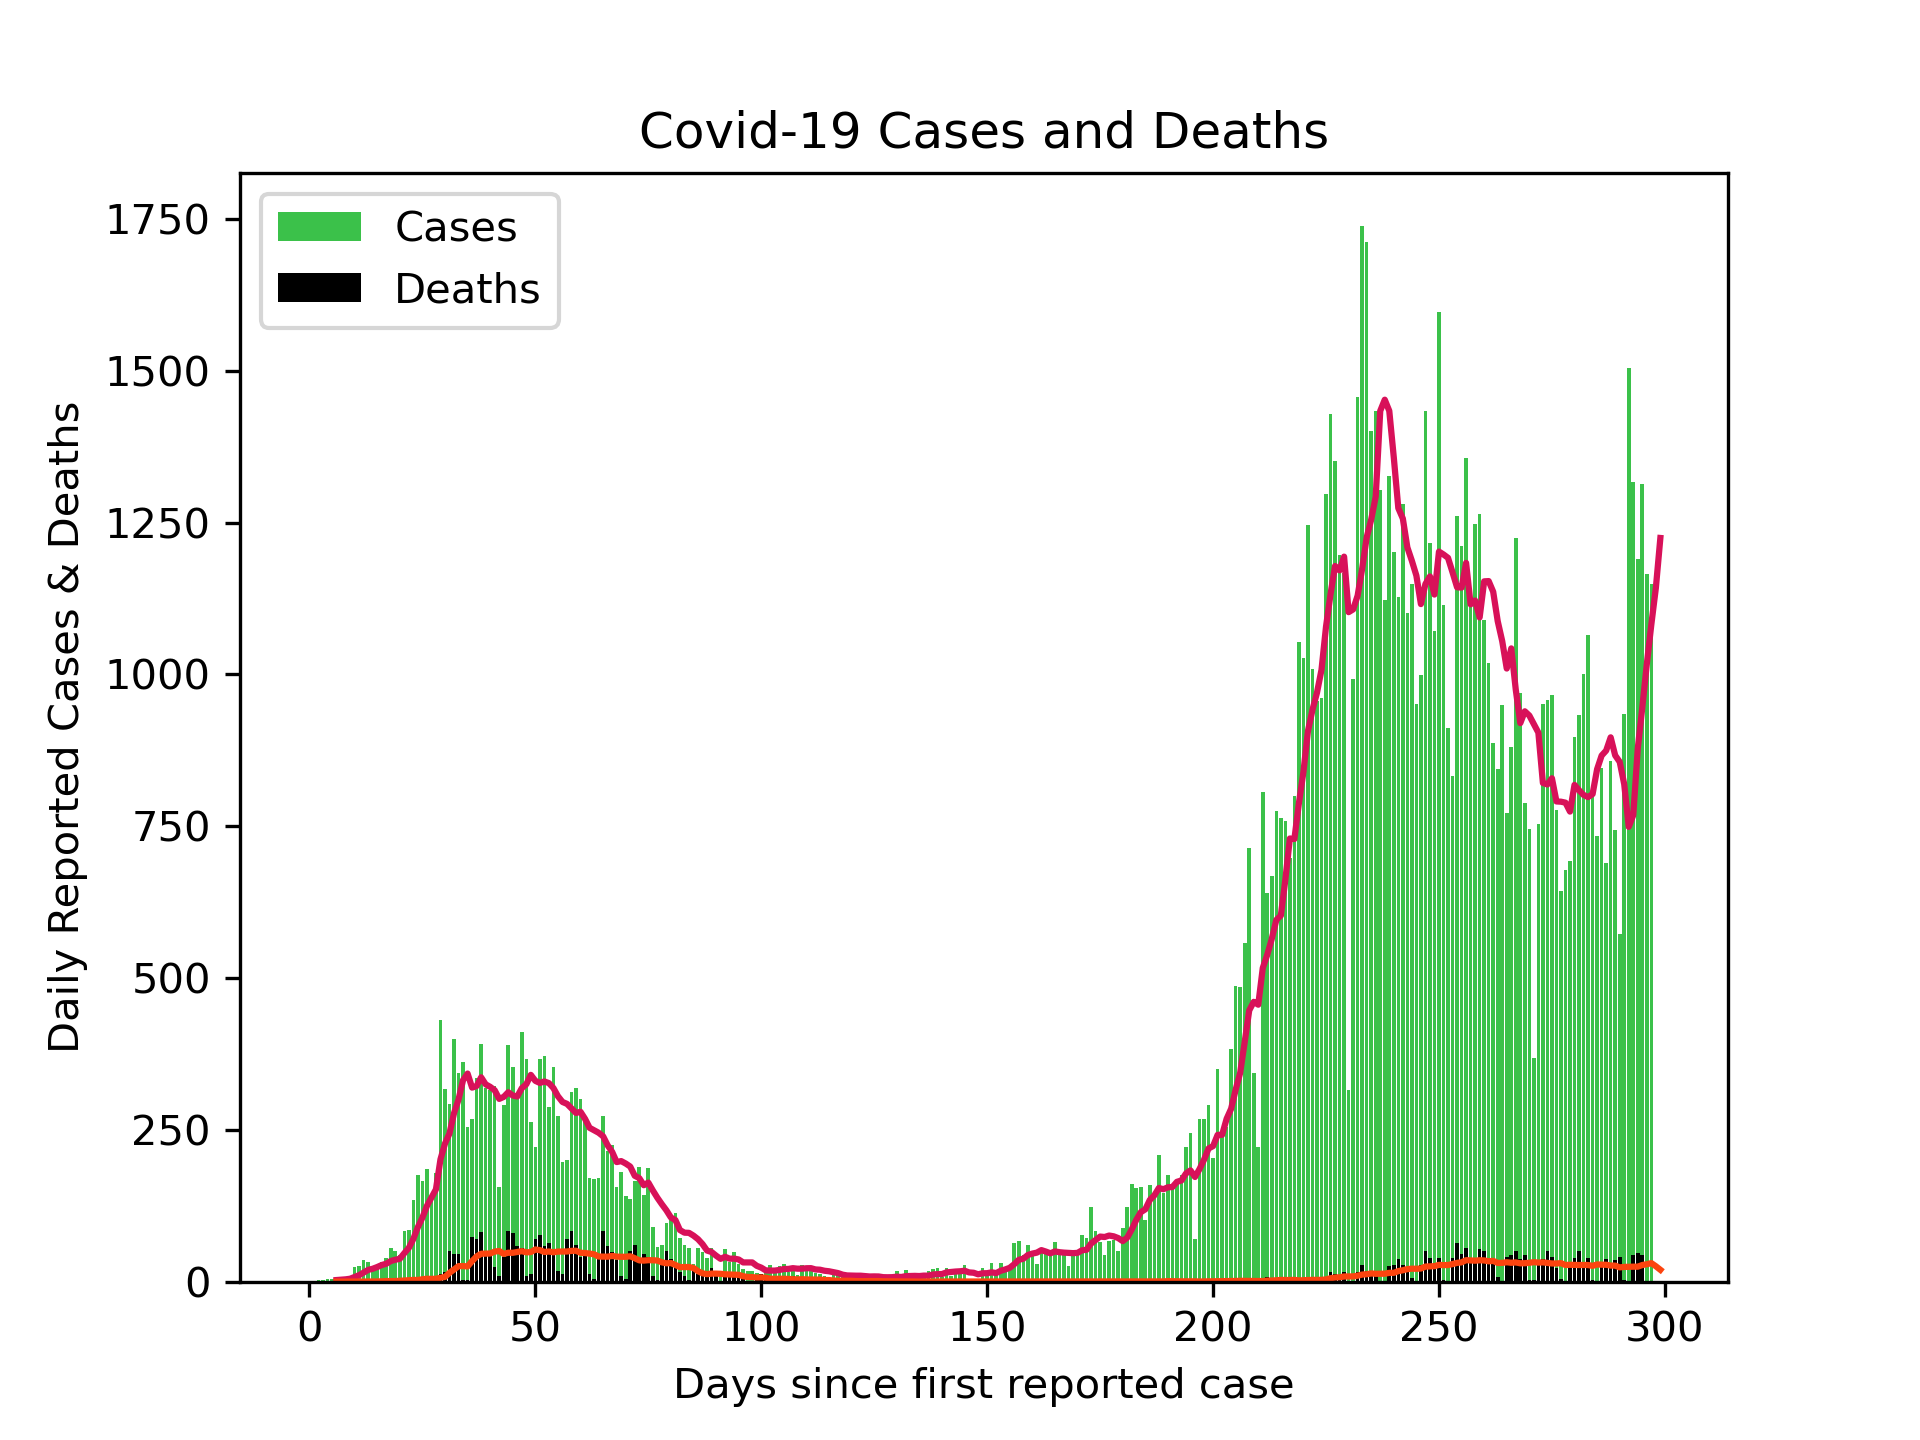
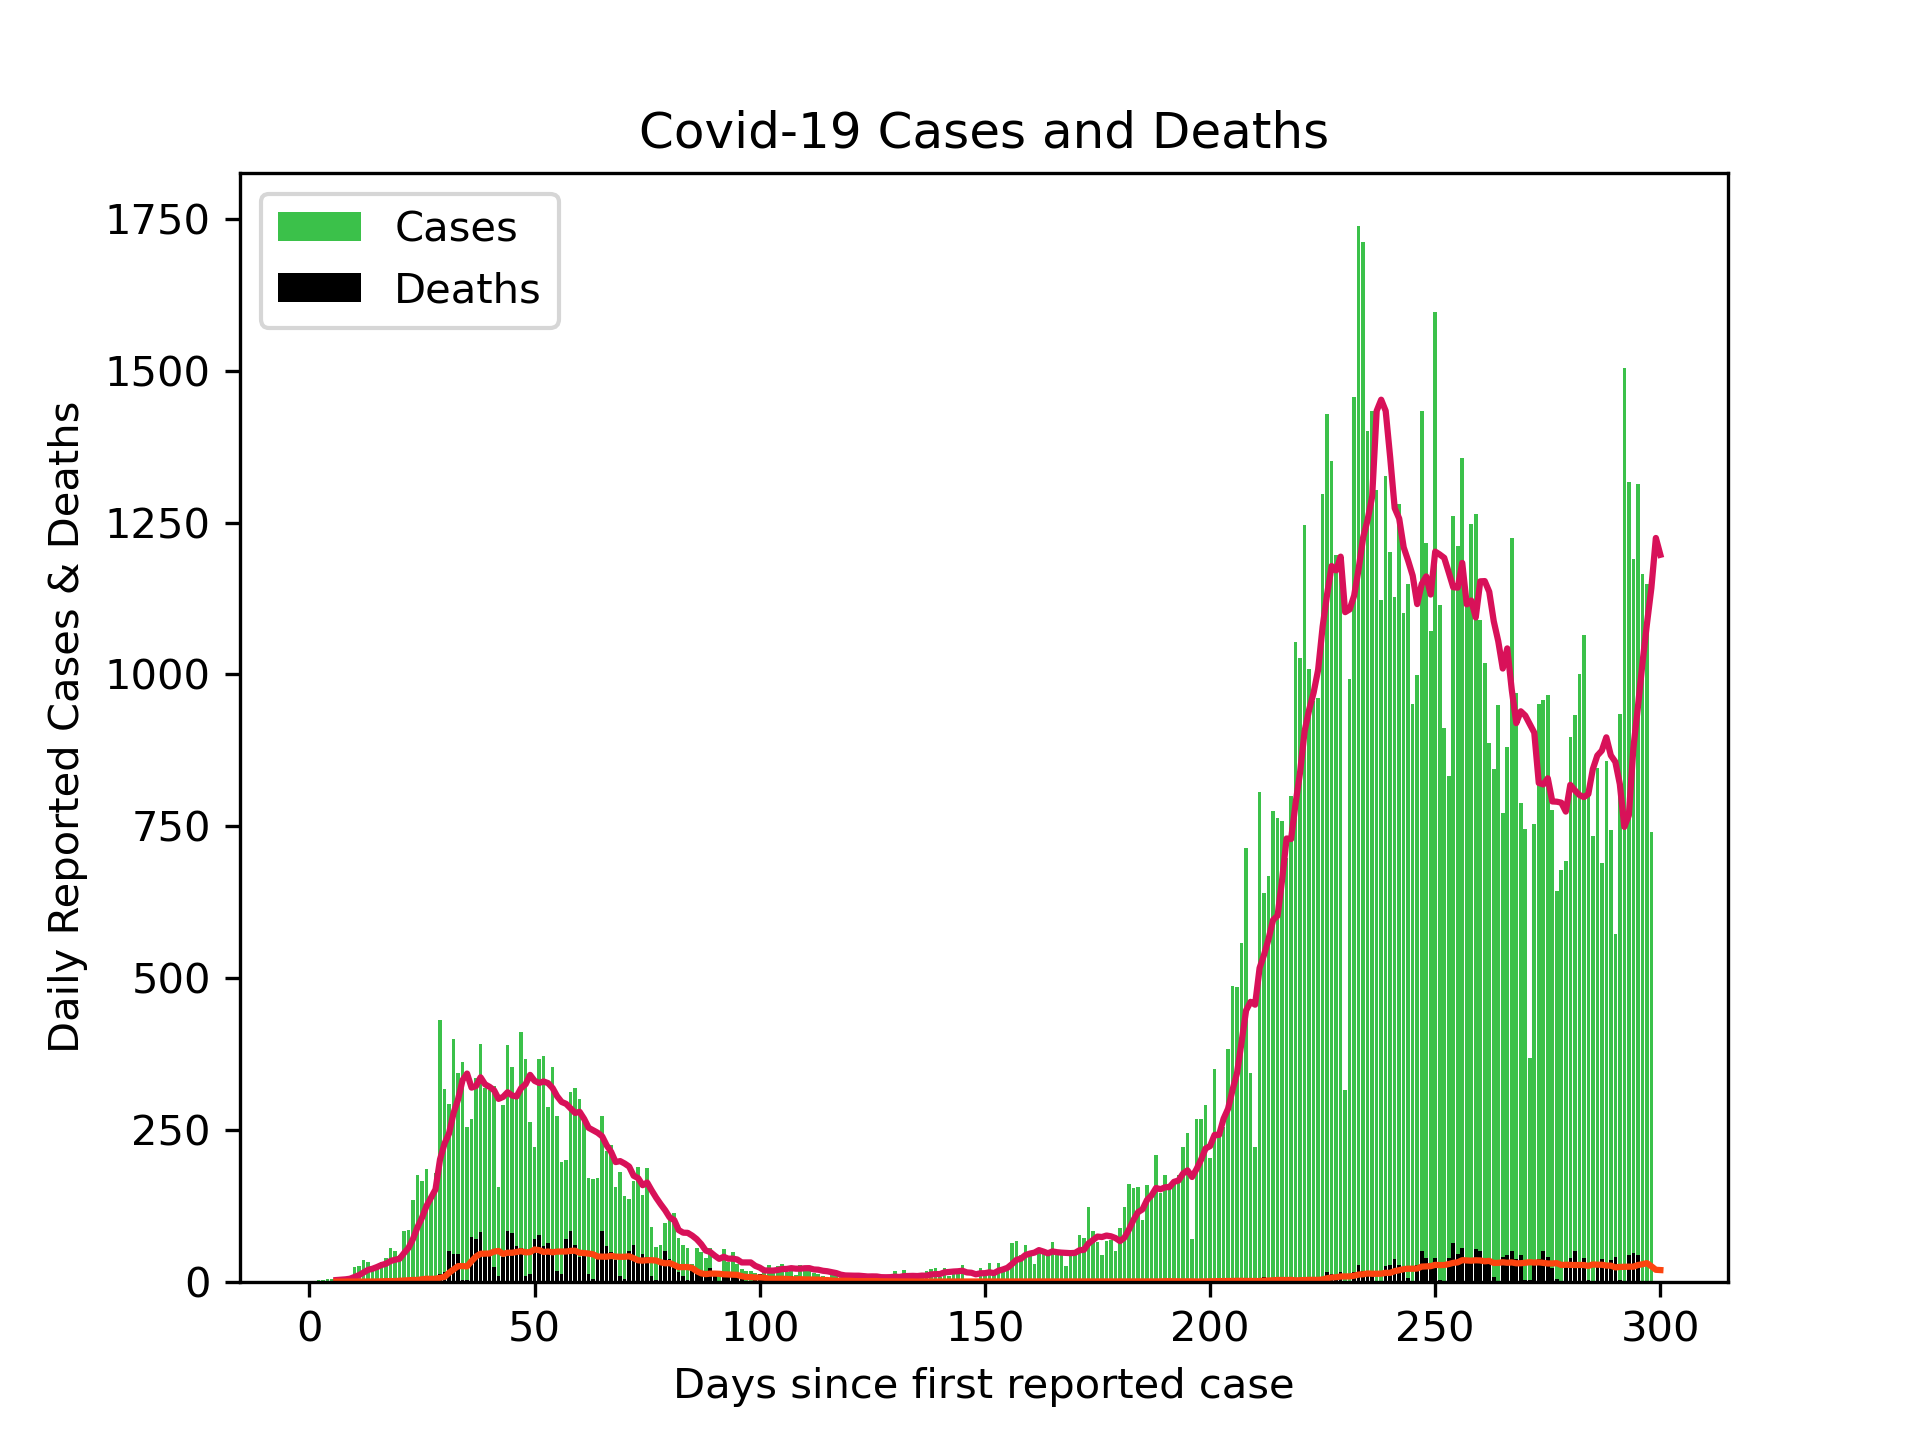
Updated Scottish cases 27/12/20

Changed region(s): [[0.5, 0.1562, 0.9062, 0.9375], [0.2188, 0.7188, 0.4062, 0.9375]]

diff --git a/README.md b/README.md
@@ -1,4 +1,4 @@
-# Scottish Cases 26/12/20
+# Scottish Cases 27/12/20
 
 No death data over festive period
 
